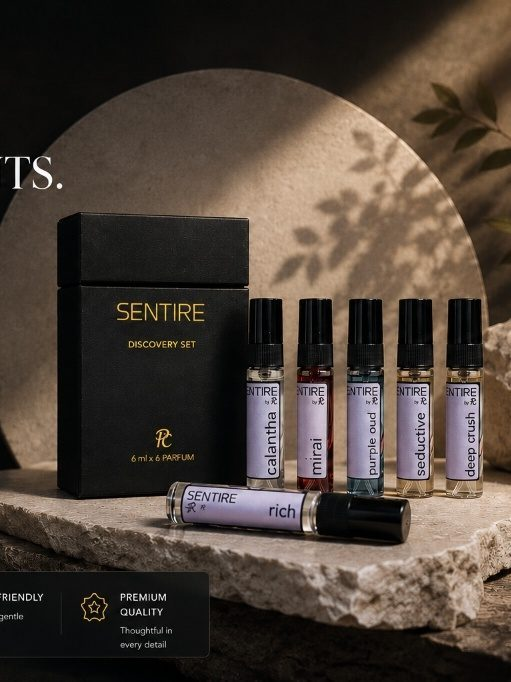
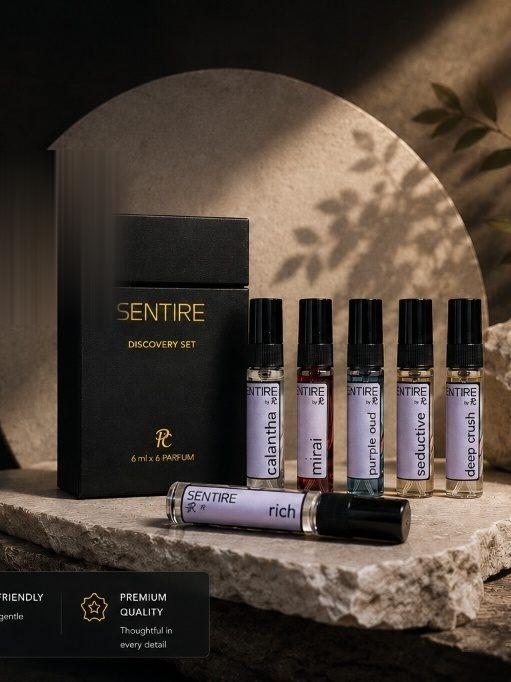
fix(mobile): render WatchAndBuy reel player via React Portal to document.body and clean TS text from discovery set photo

Changed region(s): [[0.0, 0.2155, 0.2348, 0.4311], [0.2348, 0.4311, 0.2642, 0.4619]]

diff --git a/frontend/src/components/WatchAndBuy.tsx b/frontend/src/components/WatchAndBuy.tsx
@@ -1,4 +1,5 @@
 import React, { useRef, useState, useEffect } from "react";
+import { createPortal } from "react-dom";
 import { DrawnRule, KineticText } from "../editorial/home/Kinetic";
 import { ALL_PERFUMES } from "../data/perfumes";
 
@@ -642,9 +643,10 @@ export default function WatchAndBuy({
         </div>{" "}
       </div>{" "}
       {/* ── Interactive Full-Screen Reel Modal Player (FRAGRANOTE STYLE) ── */}
-      {activeReel && (
+      {activeReel && typeof document !== "undefined" && createPortal(
         <div
-          className="fixed inset-0 z-[99999999] flex items-center justify-center bg-black sm:bg-black/95 sm:p-4 backdrop-blur-md animate-fadeIn"
+          className="fixed inset-0 z-[999999999] flex items-center justify-center bg-black sm:bg-black/95 sm:p-4 backdrop-blur-md animate-fadeIn"
+          style={{ position: "fixed", top: 0, left: 0, right: 0, bottom: 0, width: "100vw", height: "100vh" }}
           onClick={() => setActiveReelIndex(null)}
         >
           <div
@@ -762,7 +764,7 @@ export default function WatchAndBuy({
                       const pData = ALL_PERFUMES.find((p) => p.id === activeReel.id);
                       if (pData) onSelectProduct?.(pData);
                     }}
-                    className="h-14 w-14 shrink-0 rounded-xl bg-[#f5efe6] p-1 border border-black/10 flex items-center justify-center cursor-pointer overflow-hidden shadow-xs"
+                    className="h-12 w-12 rounded-xl overflow-hidden bg-[#f4f4f2] border border-black/10 shrink-0 cursor-pointer p-1"
                   >
                     <img
                       src={activeReel.swatch}
@@ -771,32 +773,17 @@ export default function WatchAndBuy({
                     />
                   </div>
                   <div className="flex-1 min-w-0">
-                    <div className="flex items-center justify-between gap-1">
-                      <h4
-                        onClick={() => {
-                          const pData = ALL_PERFUMES.find((p) => p.id === activeReel.id);
-                          if (pData) onSelectProduct?.(pData);
-                        }}
-                        className="text-sm font-bold text-black truncate cursor-pointer hover:underline"
-                      >
-                        {activeReel.product}
-                      </h4>
-                      <svg
-                        viewBox="0 0 24 24"
-                        fill="none"
-                        stroke="currentColor"
-                        strokeWidth={2}
-                        className="h-4 w-4 text-black/60 shrink-0 cursor-pointer"
-                        onClick={() => {
-                          const pData = ALL_PERFUMES.find((p) => p.id === activeReel.id);
-                          if (pData) onSelectProduct?.(pData);
-                        }}
-                      >
-                        <path d="M18 13v6a2 2 0 01-2 2H5a2 2 0 01-2-2V8a2 2 0 012-2h6M15 3h6v6M10 14L21 3" strokeLinecap="round" strokeLinejoin="round" />
-                      </svg>
-                    </div>
-                    <div className="flex items-center gap-2 mt-1">
-                      <span className="text-sm font-extrabold text-black tabular-nums">
+                    <h4
+                      onClick={() => {
+                        const pData = ALL_PERFUMES.find((p) => p.id === activeReel.id);
+                        if (pData) onSelectProduct?.(pData);
+                      }}
+                      className="text-xs font-bold text-black uppercase tracking-wider truncate cursor-pointer hover:underline"
+                    >
+                      {activeReel.product}
+                    </h4>
+                    <div className="flex items-center gap-2 mt-0.5">
+                      <span className="text-sm font-extrabold text-black">
                         {activeReel.priceText}
                       </span>
                       <span className="text-xs text-black/40 line-through tabular-nums">
@@ -822,12 +809,14 @@ export default function WatchAndBuy({
               </div>
             </div>
           </div>
-        </div>
+        </div>,
+        document.body
       )}
       {/* ── MULTI-OPTION SHARE SHEET MODAL (WhatsApp, Instagram, FB, X, Copy Link) ── */}
-      {shareModalReel && (
+      {shareModalReel && typeof document !== "undefined" && createPortal(
         <div
-          className="fixed inset-0 z-[99999999] flex items-end sm:items-center justify-center bg-black/75 backdrop-blur-sm p-0 sm:p-4 animate-fadeIn"
+          className="fixed inset-0 z-[999999999] flex items-end sm:items-center justify-center bg-black/75 backdrop-blur-sm p-0 sm:p-4 animate-fadeIn"
+          style={{ position: "fixed", top: 0, left: 0, right: 0, bottom: 0, width: "100vw", height: "100vh" }}
           onClick={() => setShareModalReel(null)}
         >
           {" "}
@@ -977,7 +966,8 @@ export default function WatchAndBuy({
               </button>{" "}
             </div>{" "}
           </div>{" "}
-        </div>
+        </div>,
+        document.body
       )}
     </section>
   );

diff --git a/frontend/src/components/ShopByCategory.tsx b/frontend/src/components/ShopByCategory.tsx
@@ -8,7 +8,7 @@ const categories = [
   {
     title: "Discovery Set",
     subtitle: "Six Scents. Find Yours.",
-    image: "/images/curated-discovery-set.jpg",
+    image: "/images/curated-discovery-set.jpg?v=v6_clean_final",
     page: "discovery-set" as const,
   },
   {
